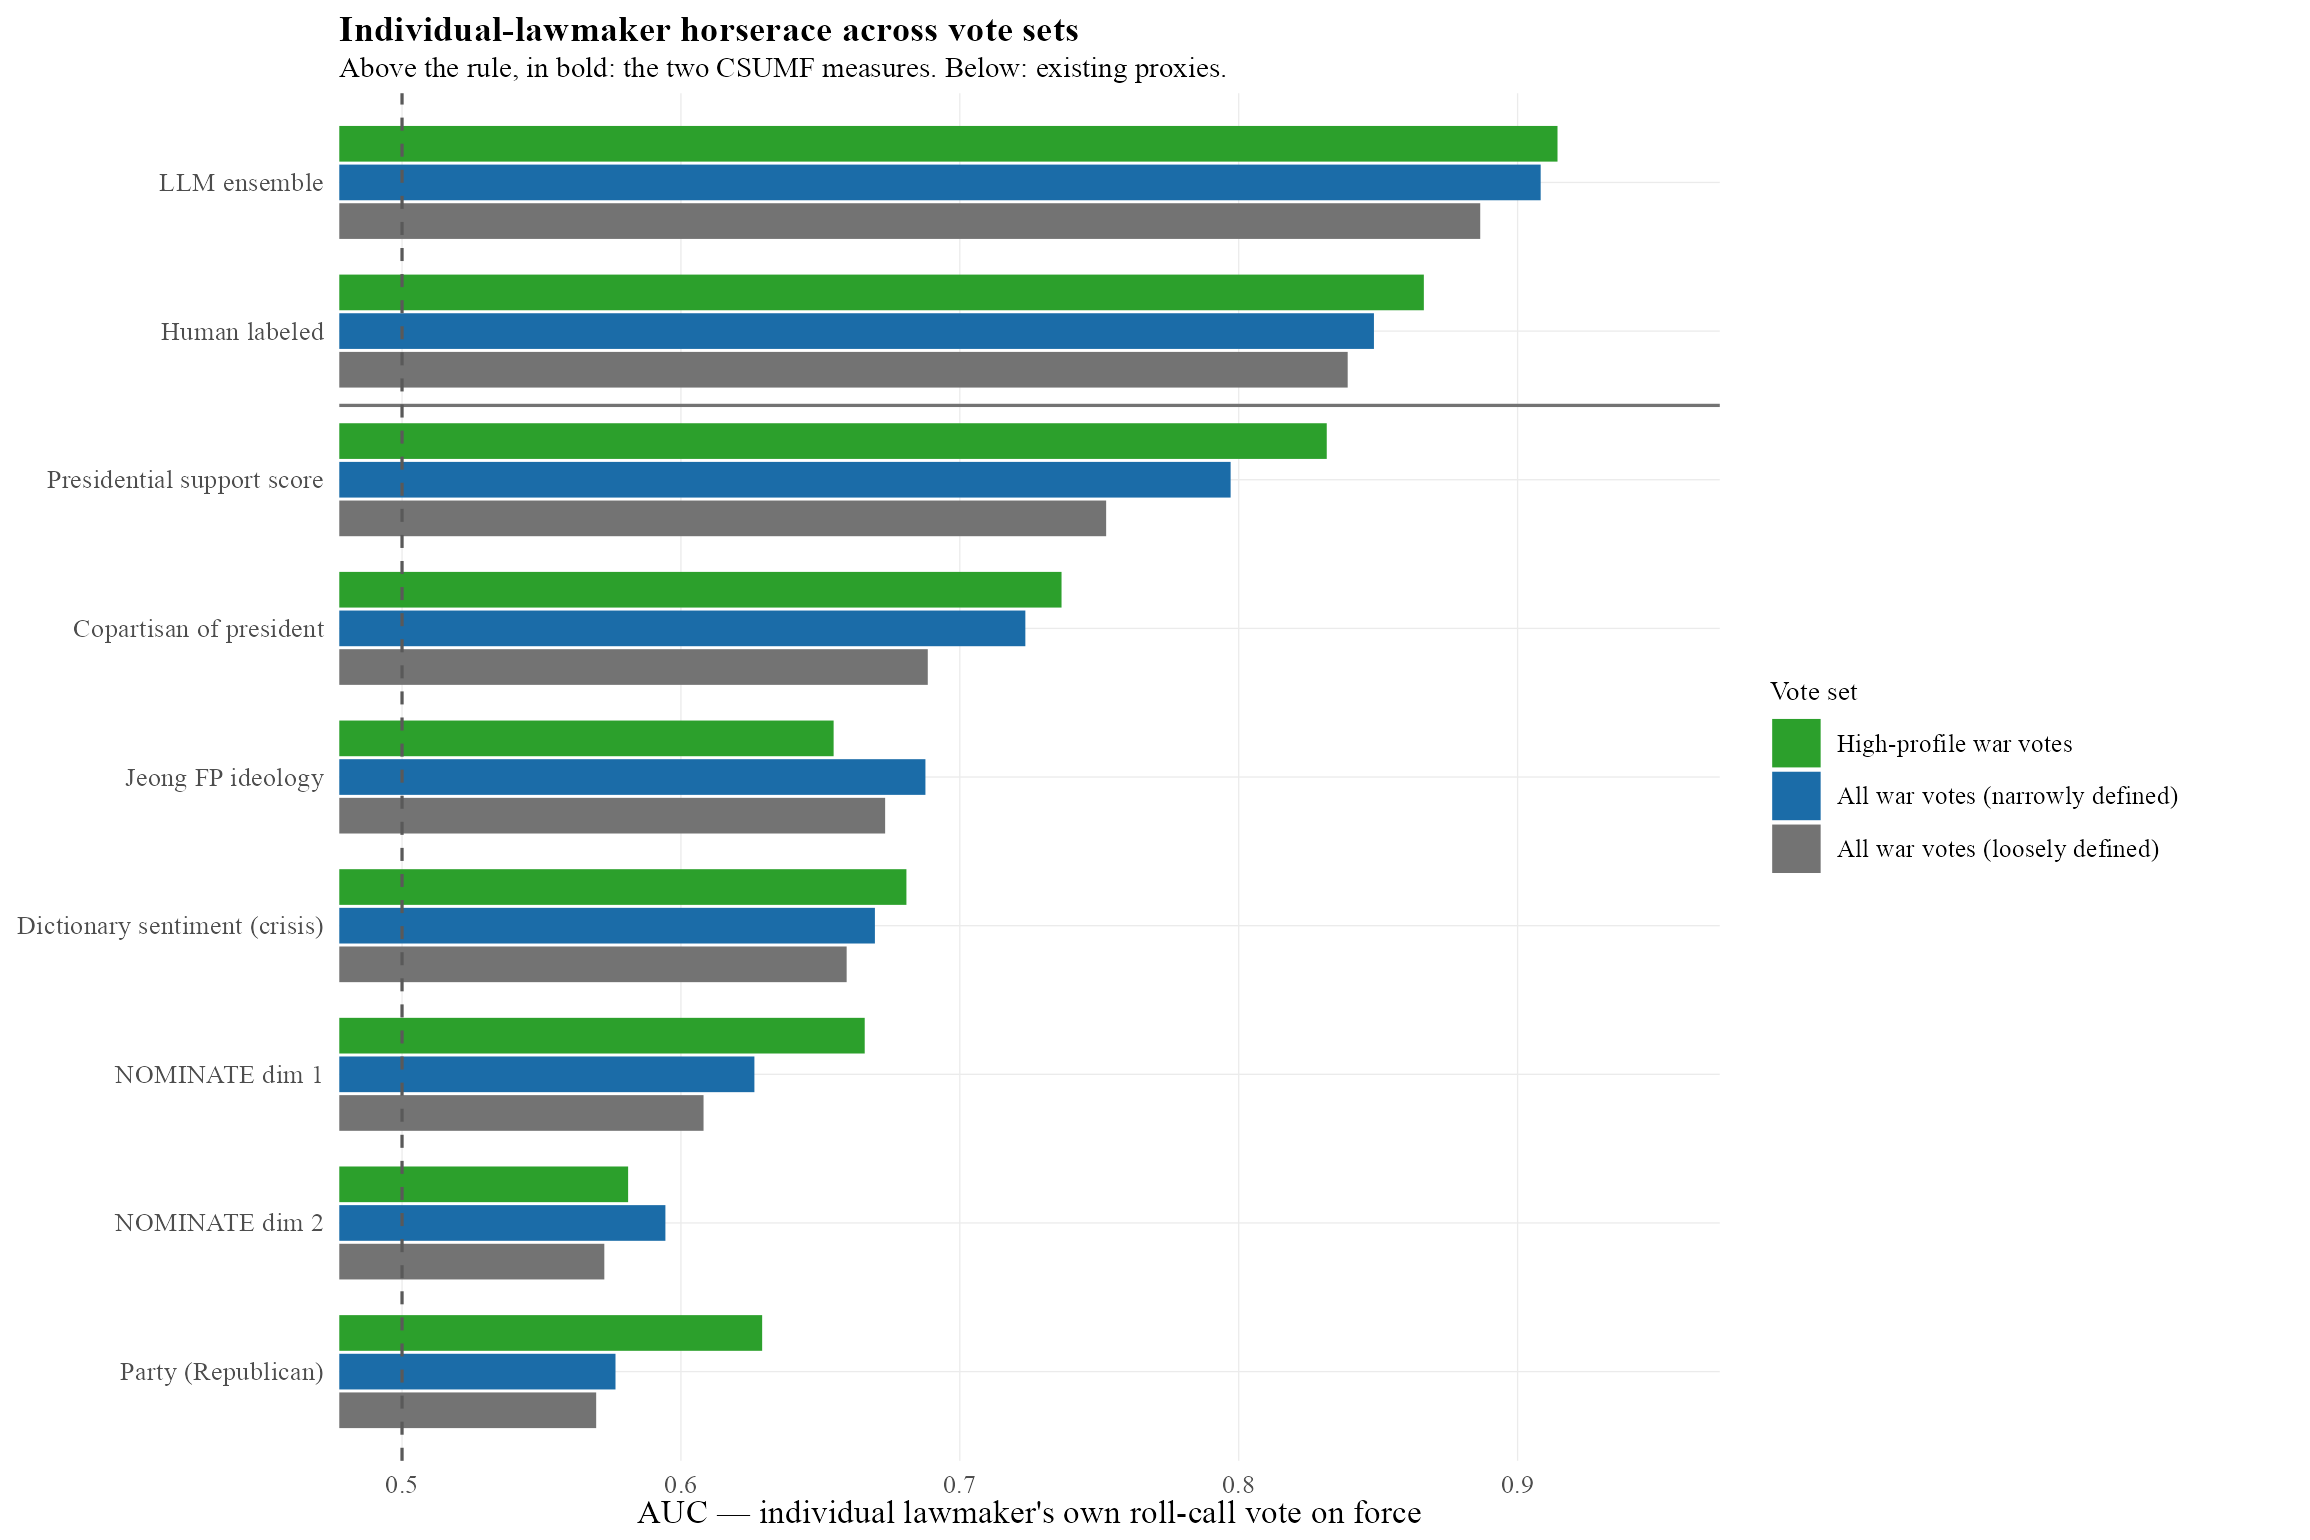
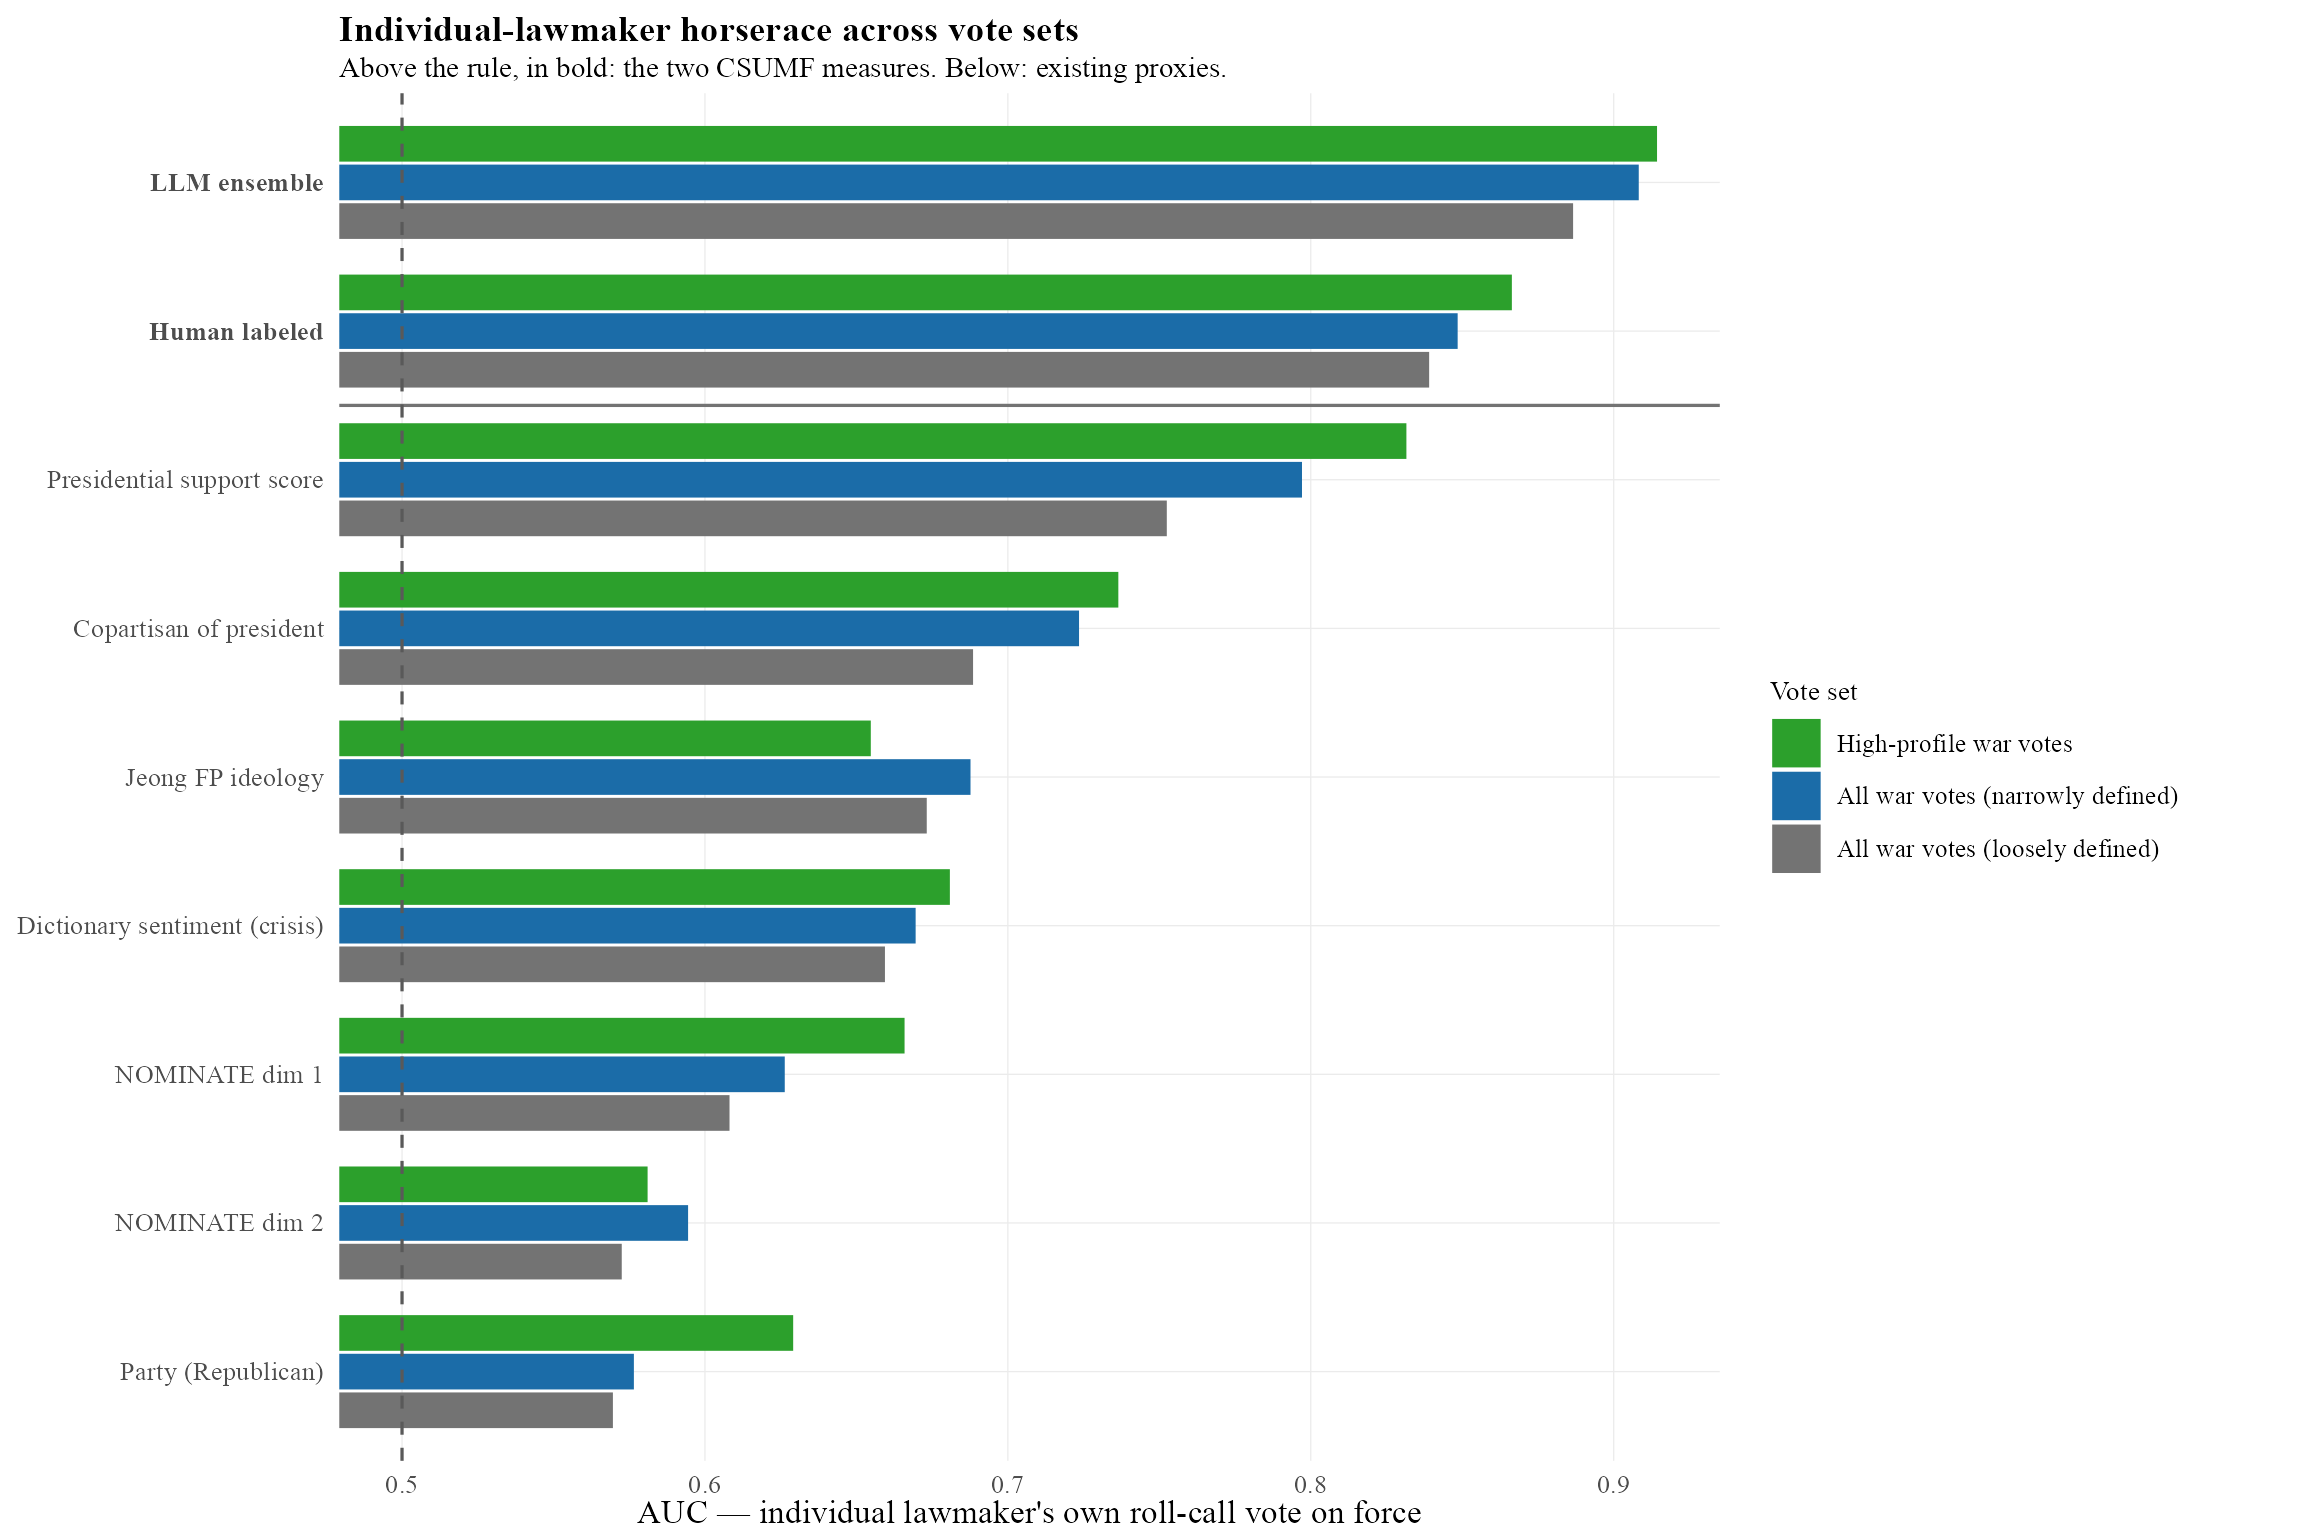
Validation: pair crisis-level R2 with member-level AUC in one figure
New two-panel figure replacing the standalone AUC plot. Left: crisis-level
CSS predicting the chamber's vote share, as R2. Right: member-level ISS
predicting an individual member's own vote, as AUC. Same three vote-set
definitions, same colours, same legend, same bold-above-the-rule
treatment for the two CSUMF measures.

The left panel reuses the crisis-level machinery already in the notebook
(vde and r2v), evaluated on the same three vote sets as the right panel
rather than the four defined for the expanded tables.

AUC axes now start at 0.5, the chance baseline, rather than 0 - a bar
running from 0 implies discrimination that an AUC of 0.5 does not have.
The dashed baseline marker is redundant once the axis starts there.

Also reverts a stray edit that had landed in the ccc-bars chunk rather
than the AUC chunk, which was erroring on an undefined object.

diff --git a/validation.html b/validation.html
@@ -20,7 +20,7 @@ a{color:#1a5fb4}
 </div>
 <h1>Measurement validation</h1>
 <p class="tag">Performance against external benchmarks, and agreement between coders at each level of aggregation.</p>
-<figure><h2>Agreement with external benchmarks</h2><figcaption>Share of variance in crisis-level roll-call support and in contemporaneous public opinion explained by each measure.</figcaption><a href="assets/validation/r2-table-1.png" target="_blank" rel="noopener"><img src="assets/validation/r2-table-1.png" alt="Agreement with external benchmarks" loading="lazy"></a></figure><figure><h2>Predicting individual members&rsquo; force votes</h2><figcaption>Area under the ROC curve for predicting how a member voted, under three definitions of a war vote.</figcaption><a href="assets/validation/expanded-auc-1.png" target="_blank" rel="noopener"><img src="assets/validation/expanded-auc-1.png" alt="Predicting individual members&rsquo; force votes" loading="lazy"></a></figure><figure><h2>Inter-coder agreement &mdash; statement level</h2><figcaption>Krippendorff&rsquo;s &alpha; between coders on individual statements.</figcaption><a href="assets/validation/stmt-agreement-2.png" target="_blank" rel="noopener"><img src="assets/validation/stmt-agreement-2.png" alt="Inter-coder agreement &mdash; statement level" loading="lazy"></a></figure><figure><h2>Inter-coder agreement &mdash; member level (ISS)</h2><figcaption>The same &alpha; on the Individual Sentiment Score, one value per member per crisis.</figcaption><a href="assets/validation/iss-agreement-2.png" target="_blank" rel="noopener"><img src="assets/validation/iss-agreement-2.png" alt="Inter-coder agreement &mdash; member level (ISS)" loading="lazy"></a></figure><figure><h2>Inter-coder agreement &mdash; crisis level (CSS)</h2><figcaption>The same &alpha; computed on the Congressional Sentiment Score, one value per crisis, over FP-elite speakers and statements through the close of each crisis.</figcaption><a href="assets/validation/css-agreement-2.png" target="_blank" rel="noopener"><img src="assets/validation/css-agreement-2.png" alt="Inter-coder agreement &mdash; crisis level (CSS)" loading="lazy"></a></figure>
+<figure><h2>Agreement with external benchmarks</h2><figcaption>Share of variance in crisis-level roll-call support and in contemporaneous public opinion explained by each measure.</figcaption><a href="assets/validation/r2-table-1.png" target="_blank" rel="noopener"><img src="assets/validation/r2-table-1.png" alt="Agreement with external benchmarks" loading="lazy"></a></figure><figure><h2>Predicting votes at both levels</h2><figcaption>Left: variance in the chamber's vote share explained by the crisis-level CSS. Right: area under the ROC curve for predicting an individual member's own vote from the ISS. Both under three definitions of a war vote.</figcaption><a href="assets/validation/twopanel-1.png" target="_blank" rel="noopener"><img src="assets/validation/twopanel-1.png" alt="Predicting votes at both levels" loading="lazy"></a></figure><figure><h2>Inter-coder agreement &mdash; statement level</h2><figcaption>Krippendorff&rsquo;s &alpha; between coders on individual statements.</figcaption><a href="assets/validation/stmt-agreement-2.png" target="_blank" rel="noopener"><img src="assets/validation/stmt-agreement-2.png" alt="Inter-coder agreement &mdash; statement level" loading="lazy"></a></figure><figure><h2>Inter-coder agreement &mdash; member level (ISS)</h2><figcaption>The same &alpha; on the Individual Sentiment Score, one value per member per crisis.</figcaption><a href="assets/validation/iss-agreement-2.png" target="_blank" rel="noopener"><img src="assets/validation/iss-agreement-2.png" alt="Inter-coder agreement &mdash; member level (ISS)" loading="lazy"></a></figure><figure><h2>Inter-coder agreement &mdash; crisis level (CSS)</h2><figcaption>The same &alpha; computed on the Congressional Sentiment Score, one value per crisis, over FP-elite speakers and statements through the close of each crisis.</figcaption><a href="assets/validation/css-agreement-2.png" target="_blank" rel="noopener"><img src="assets/validation/css-agreement-2.png" alt="Inter-coder agreement &mdash; crisis level (CSS)" loading="lazy"></a></figure>
 <div class="note">Figures are produced by the replication notebook and reproduced here without
-modification. Generated 2026-08-18.</div>
+modification. Generated 2026-08-19.</div>
 </body></html>
